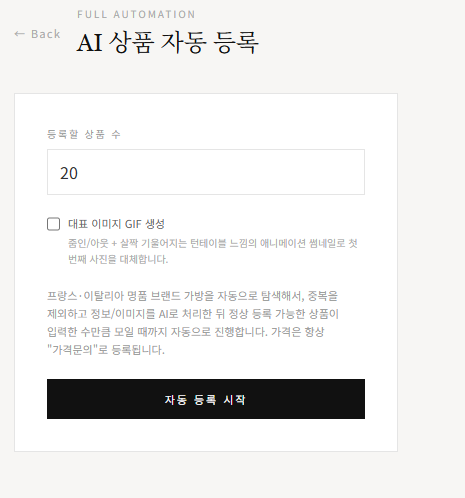
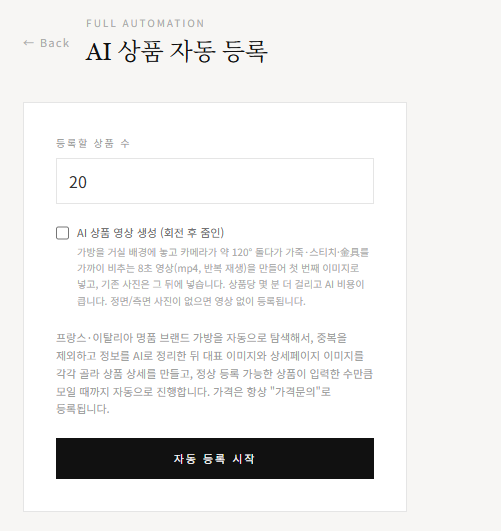
이미지및 기능 추가

diff --git a/src/data/projects.ts b/src/data/projects.ts
@@ -768,21 +768,23 @@ export const projects: Project[] = [
       '/img/bondelavie/bondelavie_3.png',
     ],
   },
-  {
+{
     id: 'bondelavie-automation',
     name: 'AI 명품 상품 자동등록 시스템',
     type: 'personal',
     period: '2026',
     platform: ['Web'],
     role: 'AI 자동화 개발 / 웹 개발',
-    techStack: ['React', 'TypeScript', 'Firebase', 'Cloud Functions', 'Google AI Studio', 'Gemini API', 'Google Search API'],
-    shortDescription: 'AI와 검색 API를 활용해 명품 가방 상품 정보 탐색, 데이터 구성 및 이미지 처리를 자동화하는 React 웹 시스템',
-    overview: '명품 가방 쇼핑몰의 반복적인 상품 등록 업무를 줄이기 위해 개발한 웹 기반 자동화 시스템입니다. Gemini API와 Google 검색 기능을 활용해 상품 정보를 탐색·구성하고, 이미지 수집 및 처리 과정을 상품 등록 흐름과 연결했습니다.',
+    techStack: ['React', 'TypeScript', 'Firebase', 'Cloud Functions', 'Google AI Studio', 'Gemini API', 'Google Search API', 'Veo 3.1'],
+    shortDescription: '생성형 AI와 검색 API를 활용한 명품 가방 상품 정보 수집, 이미지 처리 및 AI 영상 생성 자동화 웹 시스템',
+    overview: '명품 가방 쇼핑몰의 반복적인 상품 등록 업무를 줄이기 위해 개발한 웹 기반 자동화 시스템입니다. Gemini API와 Google 검색 기능을 활용해 상품 정보를 탐색·구성하고, 이미지 검색 및 AI 기반 이미지 처리와 Veo 3.1을 활용한 상품 애니메이션 영상 생성 기능을 연계하여 상품 등록 과정을 자동화했습니다.',
     keyFeatures: [
       'Gemini API 기반 상품 정보 분석 및 데이터 생성',
       'Google 검색 API를 통한 상품 정보 탐색',
       '기존 상품 중복 등록 방지 흐름',
-      '상품 이미지 검색 및 AI 기반 이미지 처리 연동',
+      '상품 이미지 검색 및 AI 기반 이미지 처리',
+      'Veo 3.1 기반 상품 이미지 애니메이션 영상 생성',
+      '상품 이미지 기반 카메라 수평 회전 및 줌인·줌아웃 영상 생성',
       'Firebase 및 Cloud Functions 기반 자동화 작업 처리',
     ],
     responsibilities: [
@@ -790,10 +792,14 @@ export const projects: Project[] = [
       'Gemini API 및 검색 API 연동',
       '상품 정보 처리 및 등록 자동화 흐름 구현',
       'Firebase 기반 작업 처리 및 데이터 연동',
+      'AI 이미지 처리 및 Veo 3.1 영상 생성 파이프라인 연동',
+      '상품별 영상 생성 방식 및 프롬프트 설계',
     ],
     technicalExperience: [
       '생성형 AI API를 활용한 상품 데이터 자동화',
       '검색 결과를 활용한 상품 정보 탐색 파이프라인',
+      'AI 이미지 처리 및 영상 생성 API 연동',
+      '상품 이미지 기반 영상 생성과 카메라 움직임 제어를 위한 프롬프트 설계',
       '비동기 작업 및 실패 상황을 고려한 자동화 처리',
     ],
     tags: ['web', 'ai', 'automation', 'personal'],
